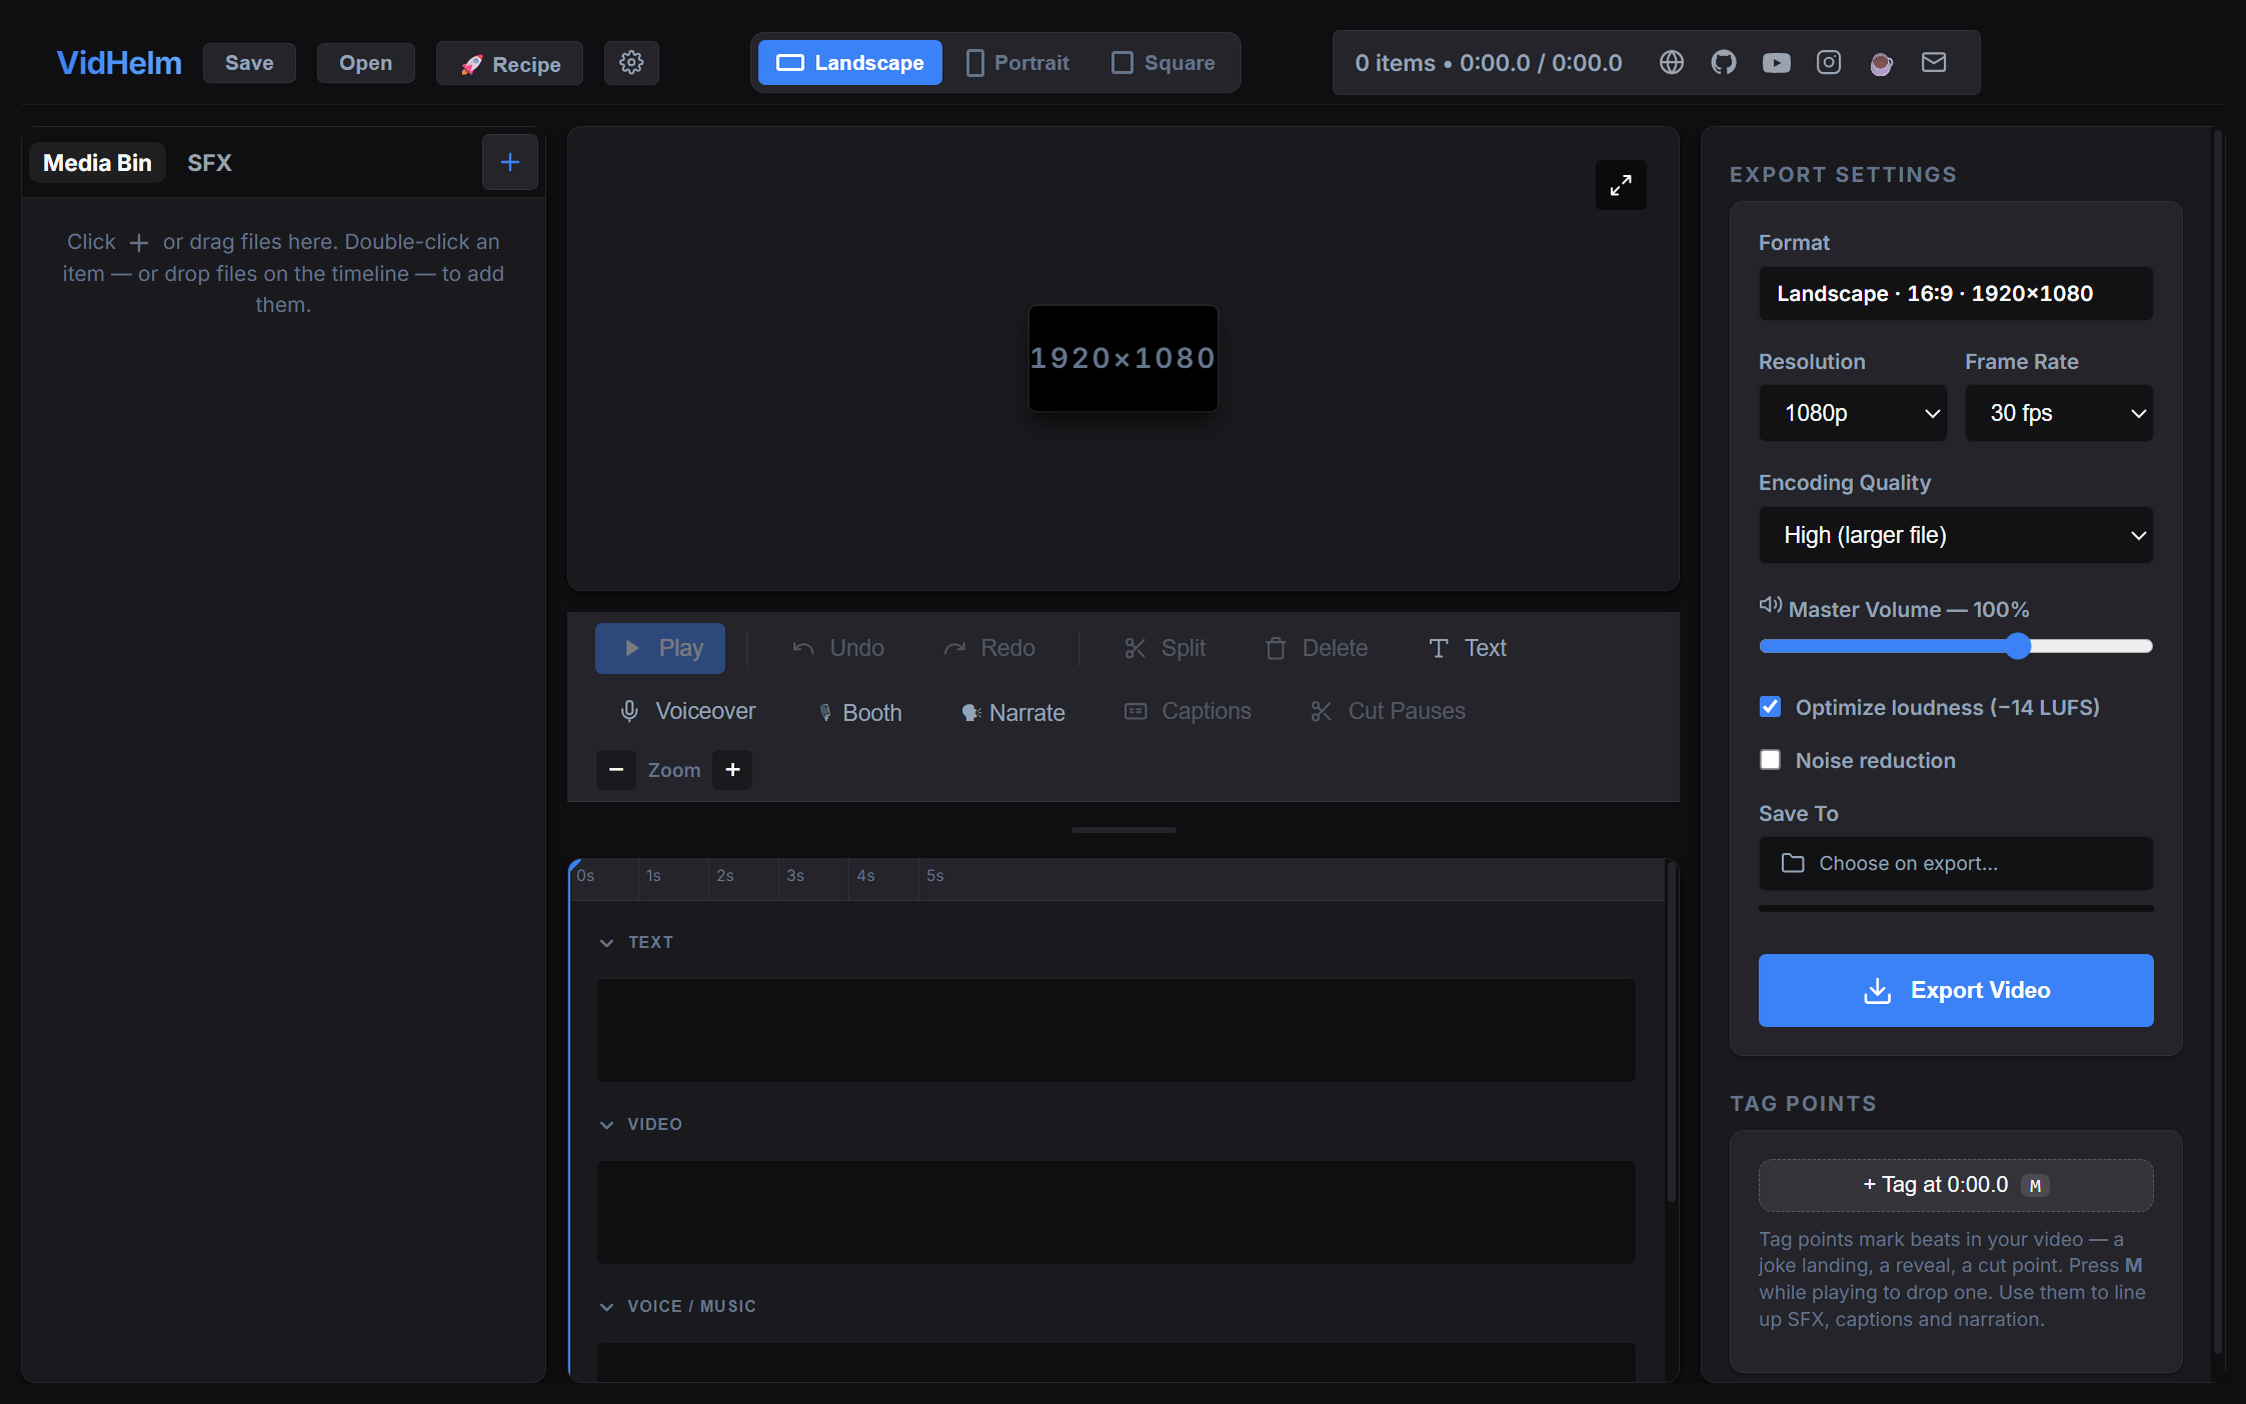
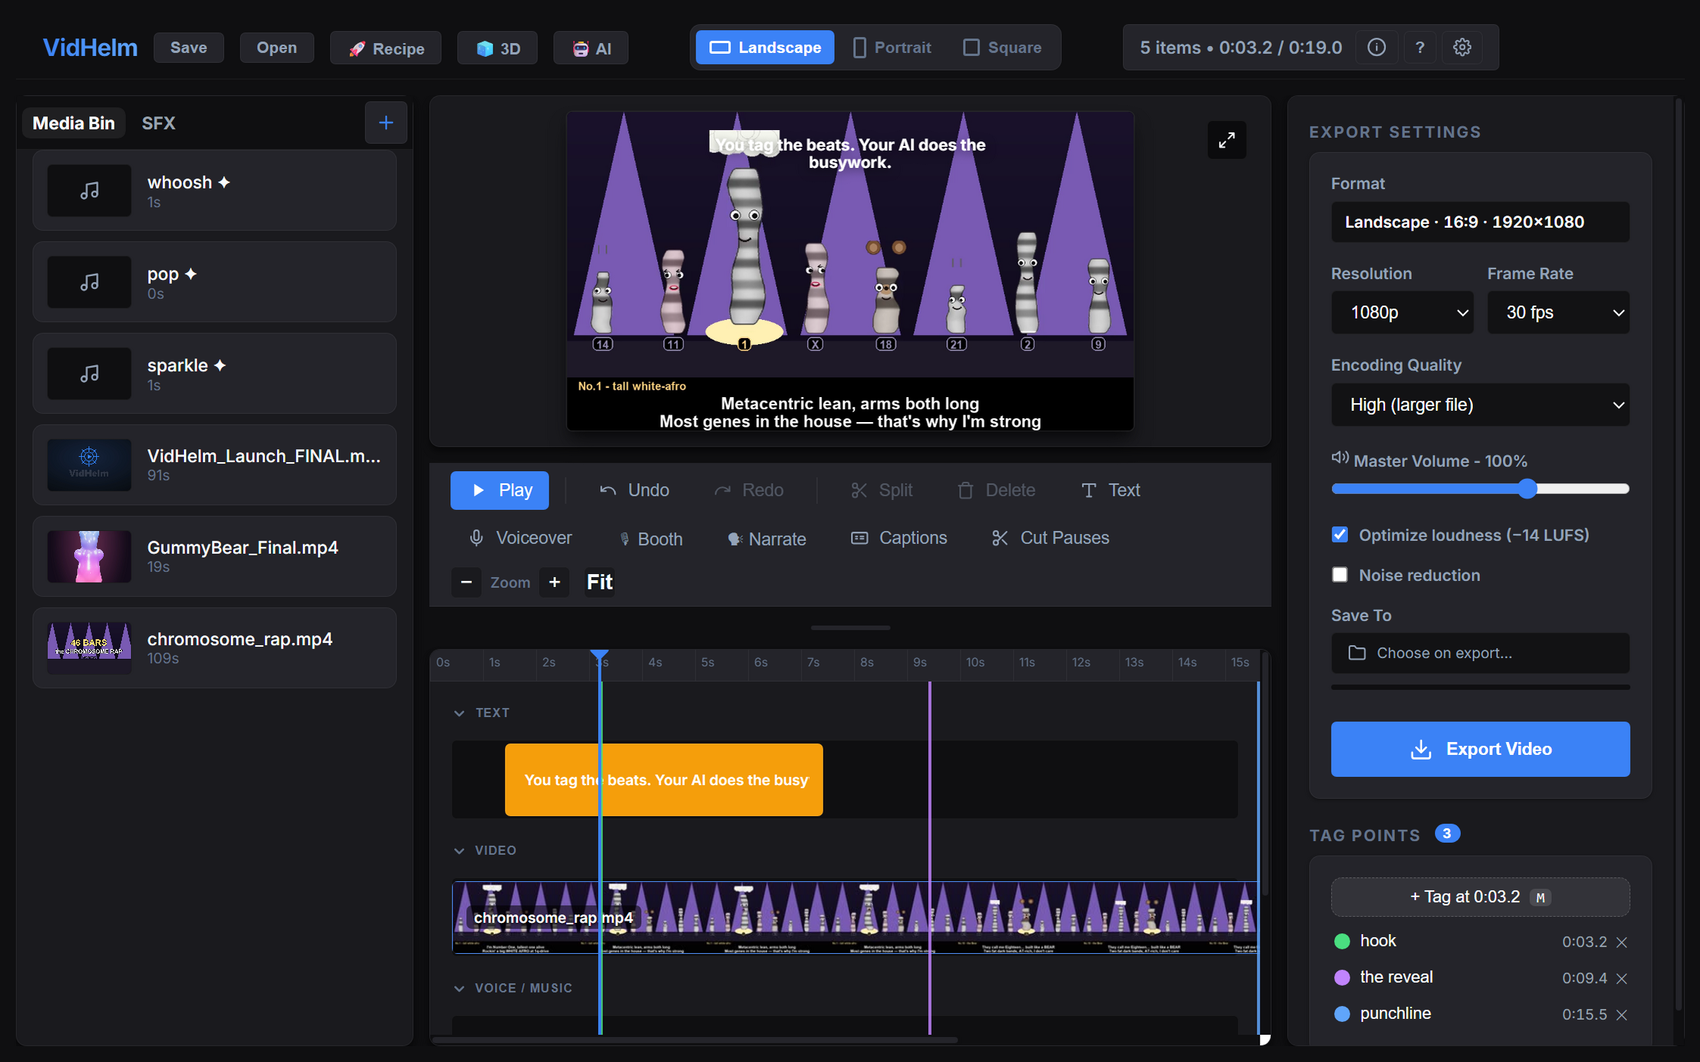
Ship the licence texts with the app, and a fresh screenshot
The installer now carries a licences folder next to the program: FFmpeg's
GPL text and build notes, the third-party notices, and VidHelm's own MIT
licence. Redistributing a build no longer means the GPL text is somewhere
else. The Credits tab and the notices say where the folder is.

docs/screenshot.png is recaptured from the current app.

diff --git a/src/help.tsx b/src/help.tsx
@@ -156,7 +156,7 @@ export function HelpModal({ open, onClose, onOpenPanel, version }: {
 
               <section>
                 <h3>VidHelm itself</h3>
-                <p className="hint">MIT licensed, use it, change it, ship it. Full text and the third-party notices live in the repository.</p>
+                <p className="hint">MIT licensed, use it, change it, ship it. The full text, the third-party notices and FFmpeg's GPL licence also ship with the app, in the <code>licences</code> folder next to the program.</p>
                 <div className="conn-actions">
                   <button onClick={() => window.ipcRenderer.openExternal('https://github.com/RandoTechNerd/VidHelm/blob/main/LICENSE')}>VidHelm licence ↗</button>
                   <button onClick={() => window.ipcRenderer.openExternal('https://github.com/RandoTechNerd/VidHelm/blob/main/THIRD-PARTY-NOTICES.md')}>Third-party notices ↗</button>

diff --git a/README.md b/README.md
@@ -121,6 +121,6 @@ Special thanks to **[inventinside](https://github.com/inventinside)**: now a con
 
 VidHelm's own code is MIT, see [LICENSE](LICENSE).
 
-It also ships other people's work, and that comes with its own terms. The most important one: the bundled **FFmpeg and FFprobe binaries are GPL-3.0-or-later**, not MIT - VidHelm runs them as separate programs and stays MIT itself, but if you redistribute VidHelm you carry those obligations along with it. The full picture, including every npm package that ships inside the app, is in **[THIRD-PARTY-NOTICES.md](THIRD-PARTY-NOTICES.md)** (and inside the app under **?** → Credits & licences).
+It also ships other people's work, and that comes with its own terms. The most important one: the bundled **FFmpeg and FFprobe binaries are GPL-3.0-or-later**, not MIT - VidHelm runs them as separate programs and stays MIT itself, but if you redistribute VidHelm you carry those obligations along with it. The full picture, including every npm package that ships inside the app, is in **[THIRD-PARTY-NOTICES.md](THIRD-PARTY-NOTICES.md)** (and inside the app under **?** → Credits & licences). Installed copies ship those texts too, in the `licences` folder beside the program.
 
 Built by [RandoTechNerd](https://www.youtube.com/@randotechnerd). If VidHelm saves you time, [a coffee keeps the updates coming](https://buymeacoffee.com/randotechnerd). ☕ Please put **"VidHelm"** in the comment so it lands against the right project, and add any feature you want next while you are there.

diff --git a/THIRD-PARTY-NOTICES.md b/THIRD-PARTY-NOTICES.md
@@ -4,6 +4,10 @@ VidHelm itself is MIT licensed (see [LICENSE](LICENSE)). It ships and builds on 
 and this file is the notice those licences ask for. Generated by `node scripts/make-notices.mjs`
 from the dependency tree that is actually packaged, regenerate it whenever dependencies change.
 
+Installed copies carry this file too: it sits in the `licences` folder beside the program (next to
+`resources`), together with the GPL text and build notes for the bundled FFmpeg and VidHelm's own
+MIT licence.
+
 ## FFmpeg and FFprobe - GPL-3.0-or-later
 
 The installer bundles prebuilt `ffmpeg.exe` and `ffprobe.exe` (the gyan.dev "essentials" build,
